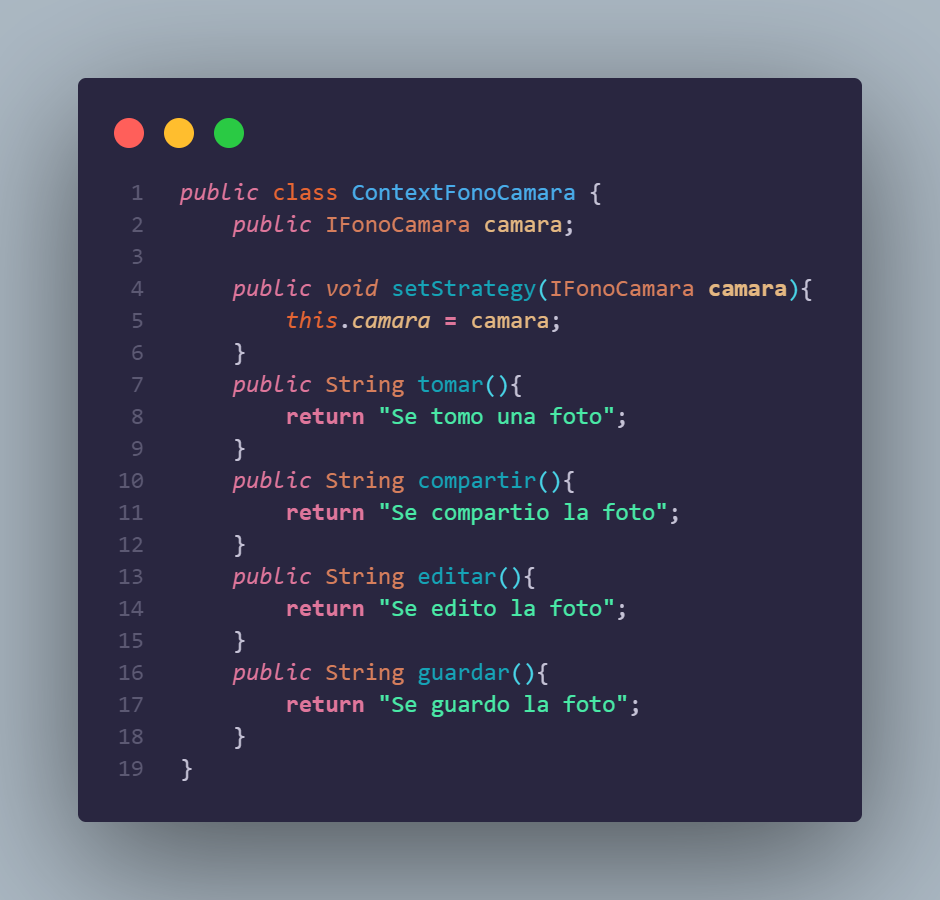
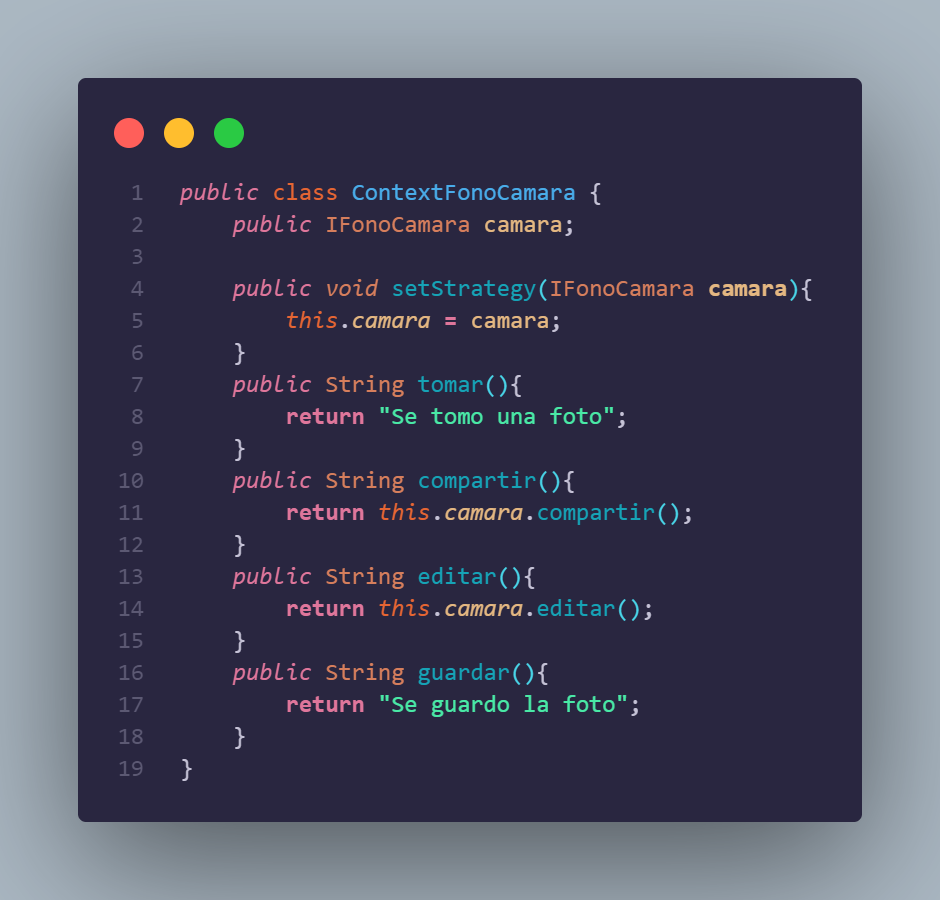
fix return method

Changed region(s): [[0.4011, 0.56, 0.7404, 0.5911], [0.4011, 0.6533, 0.6787, 0.6844]]

diff --git a/Ejercicios/PatronStrategy-FonoCamaraApp/ContextFonoCamara.java b/Ejercicios/PatronStrategy-FonoCamaraApp/ContextFonoCamara.java
@@ -8,10 +8,10 @@ public class ContextFonoCamara {
         return "Se tomo una foto";
     }
     public String compartir(){
-        return "Se compartio la foto";
+        return this.camara.compartir();
     }
     public String editar(){
-        return "Se edito la foto";
+        return this.camara.editar();
     }
     public String guardar(){
         return "Se guardo la foto";
